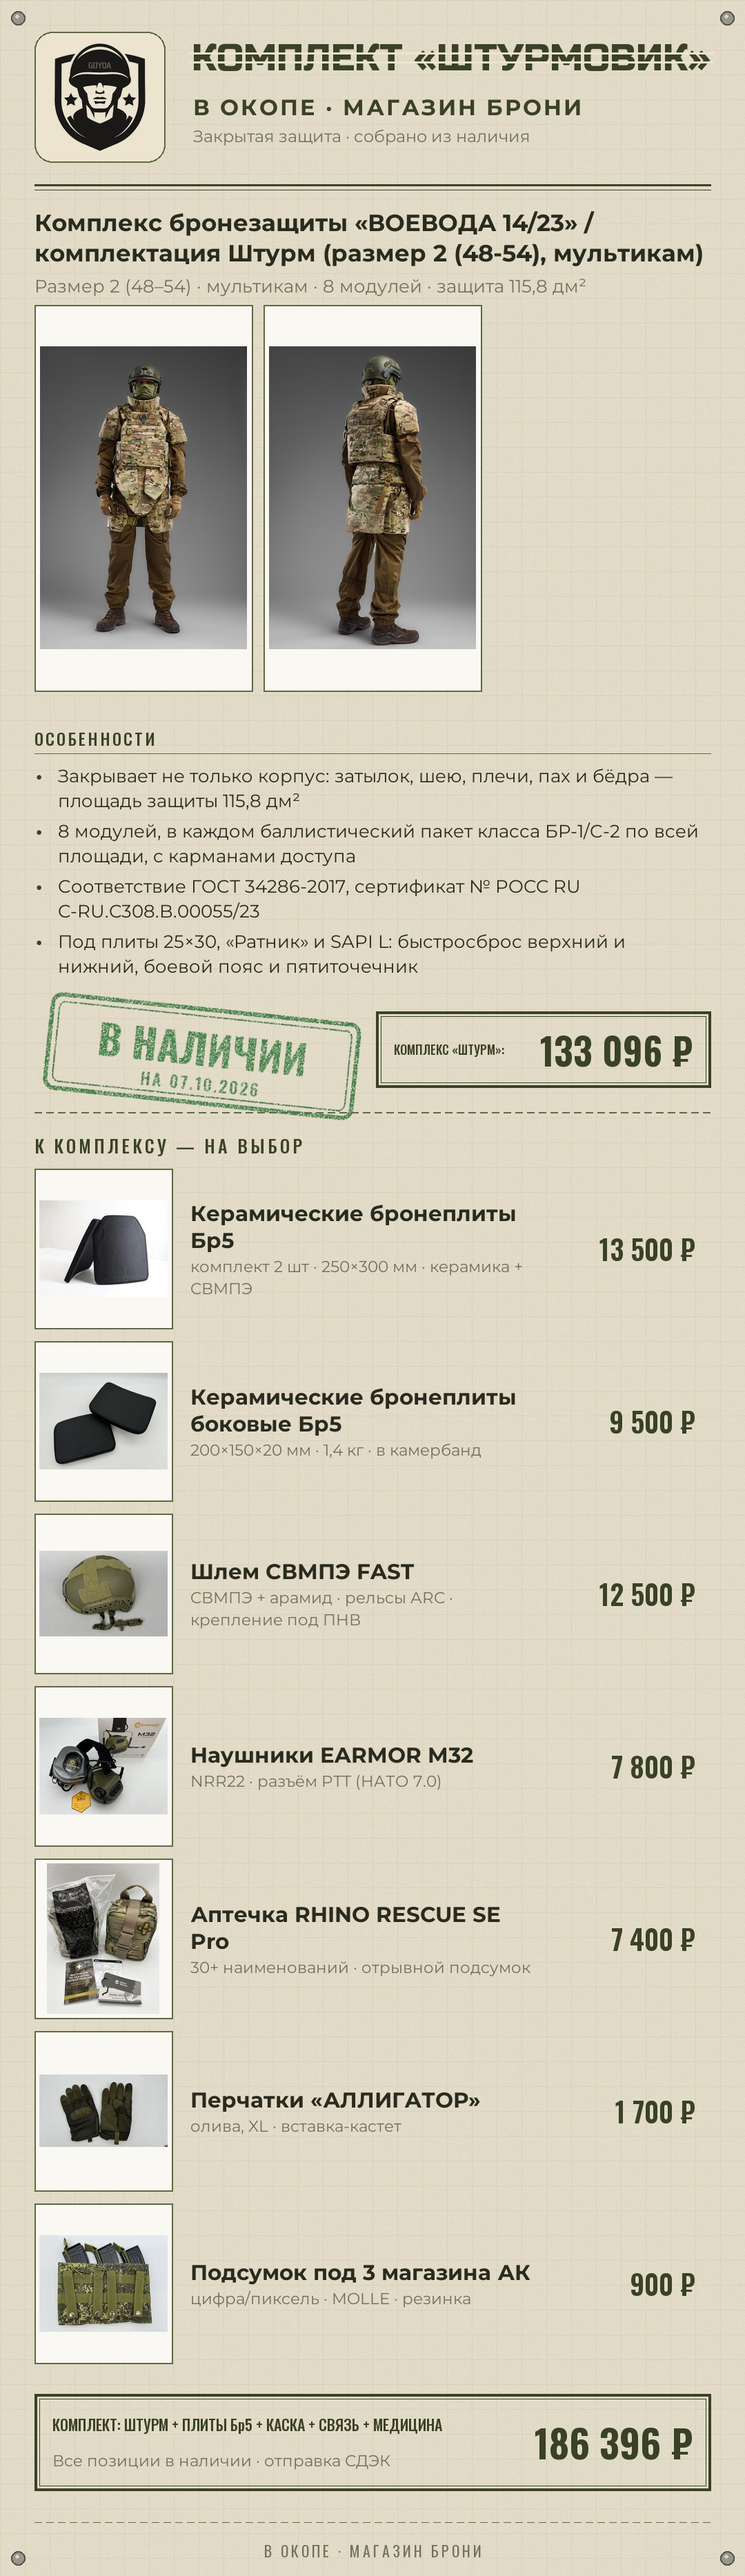
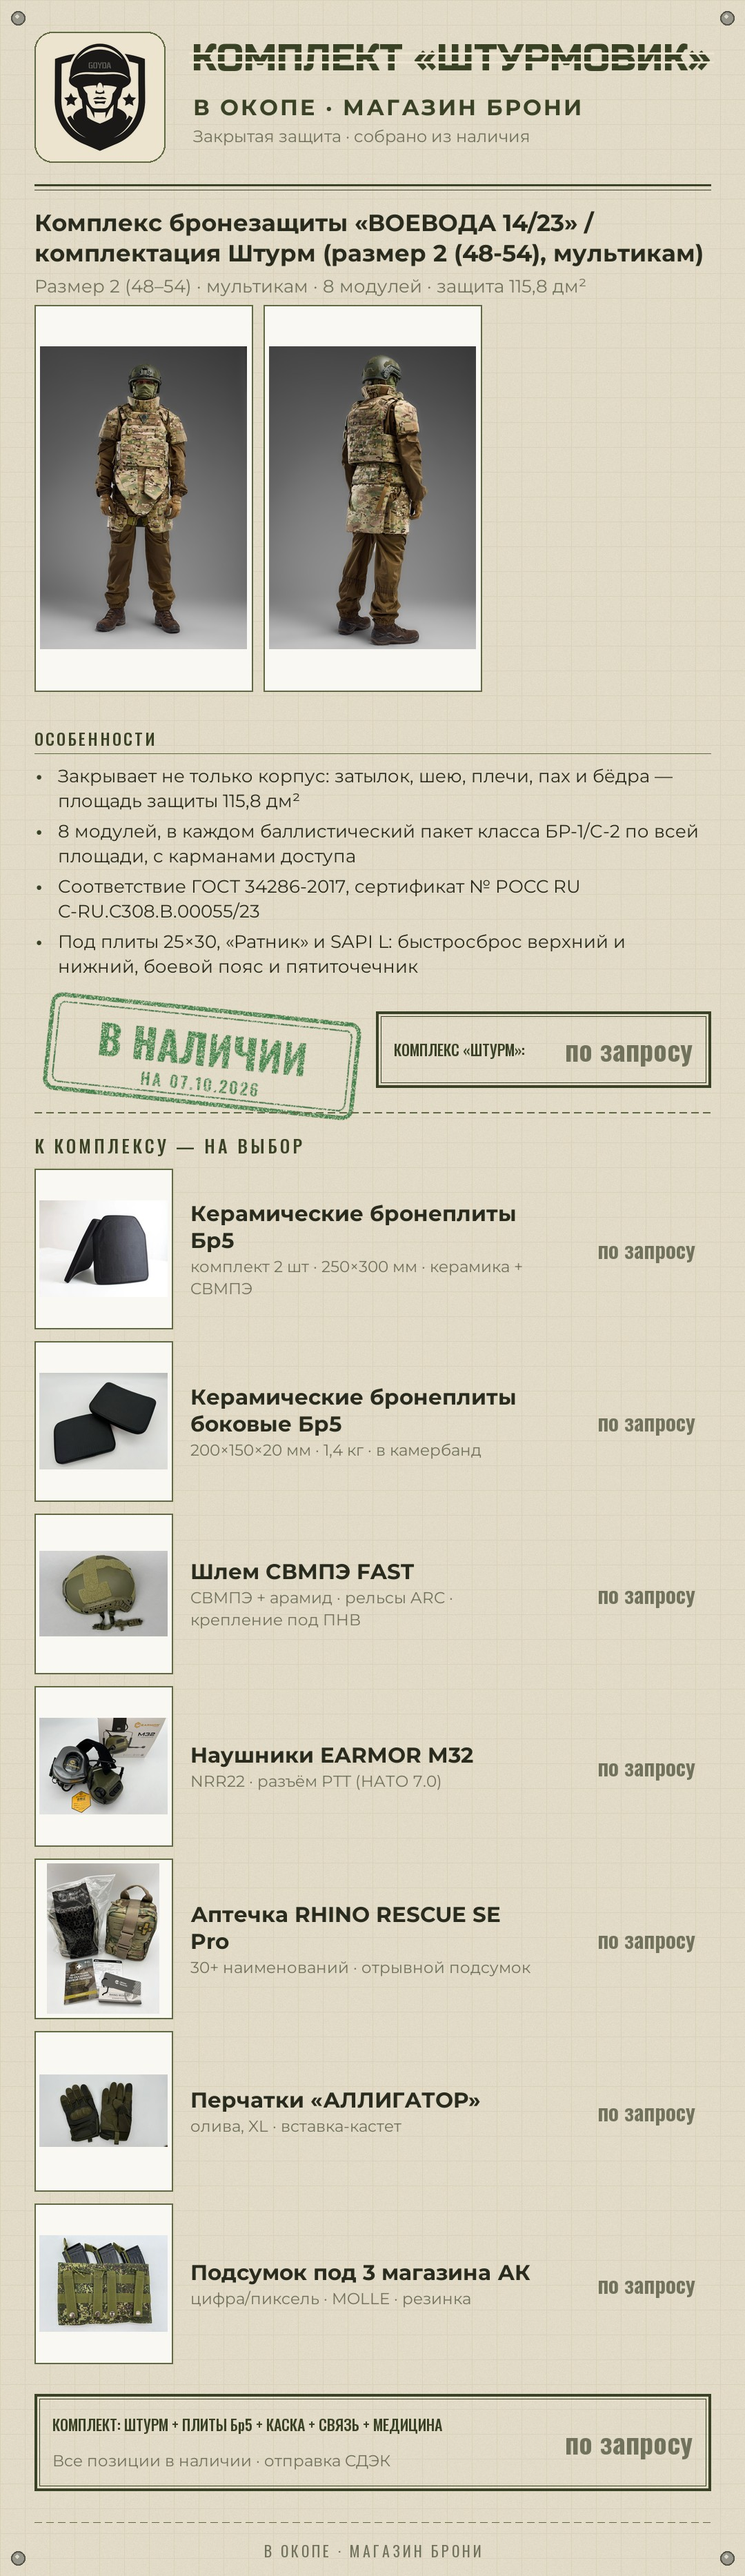
Штурмовик без цен и акций: hide_prices убирает ценовые блоки из карточки и слайдов

diff --git a/vk/slides.py b/vk/slides.py
@@ -174,7 +174,7 @@ def slide_product(spec, n, total):
             y += BOX + 34
     else:
         it = items[0]
-        facts_reserve = 300
+        facts_reserve = 120 if spec.get("no_price") else 300
         name = it.get("name", "")
         f, lines = _wrap_fit(name, W - 2 * M, (52, 44, 40), 2)
         for ln in lines:
@@ -202,18 +202,19 @@ def slide_product(spec, n, total):
                 y += 40
             y += 8
 
-    price = spec.get("price")
-    bx = [M, H - 268, W - M, H - 150]
-    d.rectangle(bx, outline=INK, width=4)
-    d.rectangle([bx[0] + 7, bx[1] + 7, bx[2] - 7, bx[3] - 7], outline=INK, width=1)
-    d.text((bx[0] + 26, (bx[1] + bx[3]) / 2), "ЦЕНА:", font=font("Oswald.ttf", 32, "Medium"),
-           fill=INK, anchor="lm")
-    if price is None:
-        d.text((bx[2] - 26, (bx[1] + bx[3]) / 2), "по запросу",
-               font=font("Oswald.ttf", 38, "Medium"), fill=MUTED, anchor="rm")
-    else:
-        d.text((bx[2] - 26, (bx[1] + bx[3]) / 2), fmt_money(price),
-               font=font("Oswald.ttf", 52, "Bold"), fill=INK, anchor="rm")
+    if not spec.get("no_price"):
+        price = spec.get("price")
+        bx = [M, H - 268, W - M, H - 150]
+        d.rectangle(bx, outline=INK, width=4)
+        d.rectangle([bx[0] + 7, bx[1] + 7, bx[2] - 7, bx[3] - 7], outline=INK, width=1)
+        d.text((bx[0] + 26, (bx[1] + bx[3]) / 2), "ЦЕНА:", font=font("Oswald.ttf", 32, "Medium"),
+               fill=INK, anchor="lm")
+        if price is None:
+            d.text((bx[2] - 26, (bx[1] + bx[3]) / 2), "по запросу",
+                   font=font("Oswald.ttf", 38, "Medium"), fill=MUTED, anchor="rm")
+        else:
+            d.text((bx[2] - 26, (bx[1] + bx[3]) / 2), fmt_money(price),
+                   font=font("Oswald.ttf", 52, "Bold"), fill=INK, anchor="rm")
     _foot(img, d, spec.get("foot", "Все позиции в наличии"), n, total)
     return img
 
@@ -252,9 +253,9 @@ def slide_summary(spec, n, total):
     d.text((bx[0] + 26, bx[1] + 112), "Все позиции в наличии · отправка СДЭК",
            font=font("PTSans-Regular.ttf", 23), fill=MUTED, anchor="lm")
     price = spec.get("price")
-    if price is None:
-        d.text((bx[2] - 26, (bx[1] + bx[3]) / 2), "по запросу",
-               font=font("Oswald.ttf", 40, "Medium"), fill=MUTED, anchor="rm")
+    if price is None or spec.get("no_price"):
+        d.text((bx[2] - 26, (bx[1] + bx[3]) / 2), "цена — в личных сообщениях",
+               font=font("Oswald.ttf", 30, "Medium"), fill=MUTED, anchor="rm")
     else:
         d.text((bx[2] - 26, (bx[1] + bx[3]) / 2), fmt_money(price),
                font=font("Oswald.ttf", 54, "Bold"), fill=INK, anchor="rm")
@@ -371,6 +372,14 @@ def build_spec(kit, card, resolved, story=None):
                                "price": it.get("price")})
 
     # укладываемся в 10 слайдов: часть позиций — по две на слайд
+    no_price = bool(kit.get("hide_prices"))
+    if no_price:
+        for p in product_slides:
+            if "items" in p:
+                for q in p["items"]:
+                    q["no_price"] = True
+            else:
+                p["no_price"] = True
     room = 10 - len(slides) - 2  # минус итог и призыв
     need = max(0, len(product_slides) - room)
     if need == 0:
@@ -383,17 +392,19 @@ def build_spec(kit, card, resolved, story=None):
         packs = [[p] for p in keep] + [[m] for m in merged]
     for pack in packs:
         if "items" in pack[0]:
-            slides.append({"type": "product", "items": pack[0]["items"], "subtitle": "Комплект"})
+            slides.append({"type": "product", "items": pack[0]["items"], "subtitle": "Комплект",
+                           "no_price": no_price})
         else:
-            slides.append({"type": "product", **pack[0], "subtitle": "Комплект"})
+            slides.append({"type": "product", **pack[0], "subtitle": "Комплект",
+                           "no_price": no_price})
 
     rows = [{"name": main["name"], "variant": main.get("sub", "")}]
     for it in items:
         rows.append({"name": it.get("short") or it["name"], "variant": it.get("sub", "")})
-    slides.append({"type": "summary", "title": "Что входит в комплект", "rows": rows,
+    slides.append({"type": "summary", "title": "Что входит в комплект", "rows": rows, "no_price": no_price,
                    "total_label": kit.get("kit", {}).get("label", "КОМПЛЕКТ"),
                    "price": kit.get("kit", {}).get("price")})
-    of = kit.get("offer")
+    of = kit.get("offer") if not kit.get("hide_offer") else None
     if of:
         slides.append({"type": "offer", "title": of.get("title", "СКИДКА ЗА РЕПОСТ"),
                        "value_label": of.get("value_label", ""),

diff --git a/media/blank/kit_card.py b/media/blank/kit_card.py
@@ -70,6 +70,7 @@ def price_text(price):
 
 
 def build(data, out_path):
+    hide_prices = bool(data.get("hide_prices"))
     prod = data["product"]
     options = data.get("options") or {}
     opt_items = options.get("items") or []
@@ -132,19 +133,23 @@ def build(data, out_path):
 
     y += 30
     bx0, by0, bx1, by1 = 545, y + 8, x1, y + 118
-    d.rectangle([bx0, by0, bx1, by1], outline=INK, width=4)
-    d.rectangle([bx0 + 7, by0 + 7, bx1 - 7, by1 - 7], outline=INK, width=1)
+    if not hide_prices:
+        d.rectangle([bx0, by0, bx1, by1], outline=INK, width=4)
+        d.rectangle([bx0 + 7, by0 + 7, bx1 - 7, by1 - 7], outline=INK, width=1)
     # подпись слева: ужимаем, чтобы не наехать на цену
     f_pl = font("Oswald.ttf", 32, "Medium")
+    if hide_prices:
+        f_pl, label = None, None
     label = str(prod.get("price_label", "ЦЕНА")) + ":"
     f_pt = font("Oswald.ttf", 54 if prod.get("price") is not None else 40, "Bold")
-    while f_pl.size > 18 and (f_pl.getlength(label) + f_pt.getlength(price_text(prod.get("price"))) + 90
-                              > (bx1 - bx0)):
-        f_pl = font("Oswald.ttf", f_pl.size - 2, "Medium")
-    d.text((bx0 + 26, (by0 + by1) / 2), label, font=f_pl, fill=INK, anchor="lm")
-    price_font = font("Oswald.ttf", 54 if prod.get("price") is not None else 40, "Bold")
-    d.text((bx1 - 26, (by0 + by1) / 2), price_text(prod.get("price")),
-           font=price_font, fill=INK if prod.get("price") is not None else MUTED, anchor="rm")
+    if not hide_prices:
+        while f_pl.size > 18 and (f_pl.getlength(label) + f_pt.getlength(price_text(prod.get("price"))) + 90
+                                  > (bx1 - bx0)):
+            f_pl = font("Oswald.ttf", f_pl.size - 2, "Medium")
+        d.text((bx0 + 26, (by0 + by1) / 2), label, font=f_pl, fill=INK, anchor="lm")
+        price_font = font("Oswald.ttf", 54 if prod.get("price") is not None else 40, "Bold")
+        d.text((bx1 - 26, (by0 + by1) / 2), price_text(prod.get("price")),
+               font=price_font, fill=INK if prod.get("price") is not None else MUTED, anchor="rm")
     st = stamp("В НАЛИЧИИ", data.get("date", ""))
     img.paste(st, (M + 6, y - 26), st)
     y = by1 + 36
@@ -163,7 +168,7 @@ def build(data, out_path):
             im.thumbnail((box - 14, ROW_H - 14), Image.LANCZOS)
             img.paste(im, (M + (box - im.width) // 2, y + (ROW_H - im.height) // 2))
             tx = M + box + 26
-            price_w = 230
+            price_w = 0 if hide_prices else 230
             tw = (x1 - 22 - price_w) - tx
             f_an, alines = fit_font("PTSans-Bold.ttf", it["name"], tw, (31, 28, 25))
             alh = f_an.size + 8
@@ -180,14 +185,15 @@ def build(data, out_path):
             for s in subs:
                 d.text((tx, ty + 4), s, font=f_as, fill=MUTED)
                 ty += 32
-            f_pr = font("Oswald.ttf", 40 if it.get("price") is not None else 32, "SemiBold")
-            d.text((x1 - 22, y + ROW_H / 2), price_text(it.get("price")), font=f_pr,
-                   fill=INK if it.get("price") is not None else MUTED, anchor="rm")
+            if not hide_prices:
+                f_pr = font("Oswald.ttf", 40 if it.get("price") is not None else 32, "SemiBold")
+                d.text((x1 - 22, y + ROW_H / 2), price_text(it.get("price")), font=f_pr,
+                       fill=INK if it.get("price") is not None else MUTED, anchor="rm")
             y += ROW_H + 18
 
     # ---- итог по комплекту ----
     if kit:
-        of = kit.get("offer") or {}
+        of = {} if hide_prices else (kit.get("offer") or {})
         box_h = 200 if of.get("value_label") else 140
         y += 26
         d.rectangle([M, y, x1, y + box_h], outline=INK, width=4)
@@ -203,9 +209,10 @@ def build(data, out_path):
             d.text((M + 26, y + 156),
                    f"{of.get('title', 'СКИДКА ЗА РЕПОСТ')} — {of['value_label']}",
                    font=font("PTSans-Bold.ttf", 25), fill=INK, anchor="lm")
-        f_kp = font("Oswald.ttf", 56 if kit.get("price") is not None else 40, "Bold")
-        d.text((x1 - 26, y + box_h / 2), price_text(kit.get("price")), font=f_kp,
-               fill=INK if kit.get("price") is not None else MUTED, anchor="rm")
+        if not hide_prices:
+            f_kp = font("Oswald.ttf", 56 if kit.get("price") is not None else 40, "Bold")
+            d.text((x1 - 26, y + box_h / 2), price_text(kit.get("price")), font=f_kp,
+                   fill=INK if kit.get("price") is not None else MUTED, anchor="rm")
         y += box_h + 34
 
     y += 12

diff --git a/vk/kit.py b/vk/kit.py
@@ -104,7 +104,10 @@ def build_kit(kit_path):
     resol = {it["id"]: resolve(it, idx, full, manifest) for it in items}
 
     # ---------- карточка ----------
+    hide_prices = bool(kit.get("hide_prices"))
+    _main_price = None if hide_prices else main.get("price")
     card = {
+        "hide_prices": hide_prices,
         "date": kit.get("date", ""),
         "title": kit["title"],
         "subtitle": kit.get("subtitle", "Собрано из наличия"),
@@ -114,7 +117,7 @@ def build_kit(kit_path):
             "photos": main_res["photos"][:3],
             "sections": card_sections(main, main_res),
             "price_label": main.get("label", "ОСНОВА"),
-            "price": main.get("price"),
+            "price": _main_price,
         },
         "options": {
             "label": kit.get("options_label", "К НЕМУ — НА ВЫБОР"),
@@ -123,12 +126,13 @@ def build_kit(kit_path):
                 "sub": it.get("card_sub") or one_line_facts(it, resol[it["id"]]),
                 "sub2": it.get("card_sub2") or "",
                 "photo": resol[it["id"]]["photos"][0],
-                "price": it.get("price"),
+                "price": None if hide_prices else it.get("price"),
             } for it in items],
         },
     }
     if kit.get("kit"):
-        card["kit"] = {"label": kit["kit"]["label"], "price": kit["kit"].get("price")}
+        card["kit"] = {"label": kit["kit"]["label"],
+                       "price": None if hide_prices else kit["kit"].get("price")}
     json.dump(card, open(os.path.join(out_dir, "карточка.json"), "w", encoding="utf-8"),
               ensure_ascii=False, indent=1)
     card_path = os.path.join(out_dir, "карточка.jpg")

diff --git a/vk/README.md b/vk/README.md
@@ -120,3 +120,13 @@ PYTHONPATH=$PWD/vendor python3 vk/discount.py shturmovik --retail 133096,13500,9
 Акция живёт в `vk/kits/<slug>.json` → `offer` (заголовок, сумма, шаги, оговорки). Из неё
 собирается последний слайд карусели, плашка на карточке и блок в тексте поста. Скидка —
 только за репост записи в личные сообщения; в посте она есть, цены товаров — нет.
+
+### Без цен и акций (если владелец не хочет показывать цифры)
+
+В `vk/kits/<slug>.json`:
+
+- `"hide_prices": true` — карточка и слайды собираются без ценовых блоков (ни «по запросу», ни цифр);
+- убрать блок `offer` — акции в публикации не будет (расчёт остаётся в `prices/`).
+
+Так собран «Штурмовик» (07.10.2026): цена и скидка 5 000 ₽ существуют, но в публикацию не идут —
+только в личные сообщения и в листы `prices/`.
